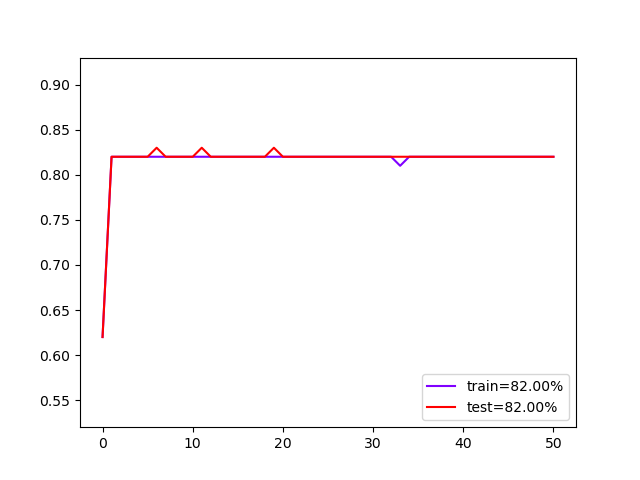
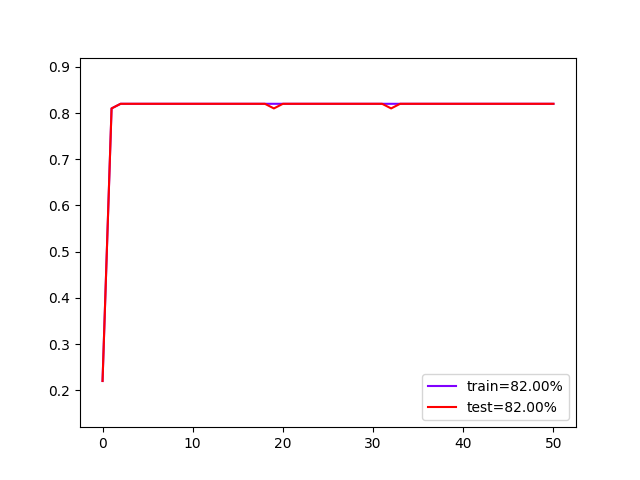
This stiches the SLP to use prepare.py and moving slp.py out of SLP directory and SLP directory not required.

diff --git a/slp.py b/slp.py
@@ -1,5 +1,6 @@
 import numpy as np
 from os import path
+import prepare
 
 def add_label(data,number_of_inputs):
 	"""
@@ -114,17 +115,20 @@ def train(maxTrainRows=25000, maxTestRows=5000):
 	attributes = 24 #labels are included
 	learning_rate = 0.1
 	#importing from csv
-	train = np.genfromtxt(path.join('SLP','credit_card_train.csv'), delimiter=',',max_rows=maxTrainRows)
-	test = np.genfromtxt(path.join('SLP','credit_card_test.csv'), delimiter=',',max_rows=maxTestRows)
+	data = np.genfromtxt(path.join('data', 'data.csv'), delimiter=',')
+	idx_label = np.shape(data)[1] - 1 # last column
+	(data_train, data_test, labels_train, labels_test, n_class) = prepare.prepare_data(data, idx_label)
+	#train = np.genfromtxt(path.join('SLP','credit_card_train.csv'), delimiter=',',max_rows=maxTrainRows)
+	#test = np.genfromtxt(path.join('SLP','credit_card_test.csv'), delimiter=',',max_rows=maxTestRows)
 
 	#separating labels
-	label_train = add_label(train,(train.shape[0]))
-	label_test = add_label(test,(test.shape[0]))
+	#label_train = add_label(train,(train.shape[0]))
+	#label_test = add_label(test,(test.shape[0]))
 
 	#preprocess data
-
-	train = preprocess(train)
-	test = preprocess(test)
+	#pre processed with prepared
+	#train = preprocess(train)
+	#test = preprocess(test)
 
 	#create weight matrix
 
@@ -135,7 +139,7 @@ def train(maxTrainRows=25000, maxTestRows=5000):
 	conf_matrix = confusion_matrix_create(2)
 
 	#epoch train
-	weights_train = epoch_train_slp(train,label_train, learning_rate,weights_train, conf_matrix,label_test,test,200,train_accuracy,test_accuracy)
+	weights_train = epoch_train_slp(data_train,labels_train, learning_rate,weights_train, conf_matrix,labels_test,data_test,200,train_accuracy,test_accuracy)
 
 
 	#Print the results to the screen in a flat format

diff --git a/run.py b/run.py
@@ -82,7 +82,8 @@ def slp():
   pngfilename = path.join('output', 'slp.png')
   print(f'Executing slp (output in {outfilename})')
   def runModel():
-    from SLP import slp
+    #from SLP import slp
+    import slp
     slp.train()
   redirectFunctionOutputToFile(runModel, outfilename)
   with open(outfilename, 'r') as infile:
